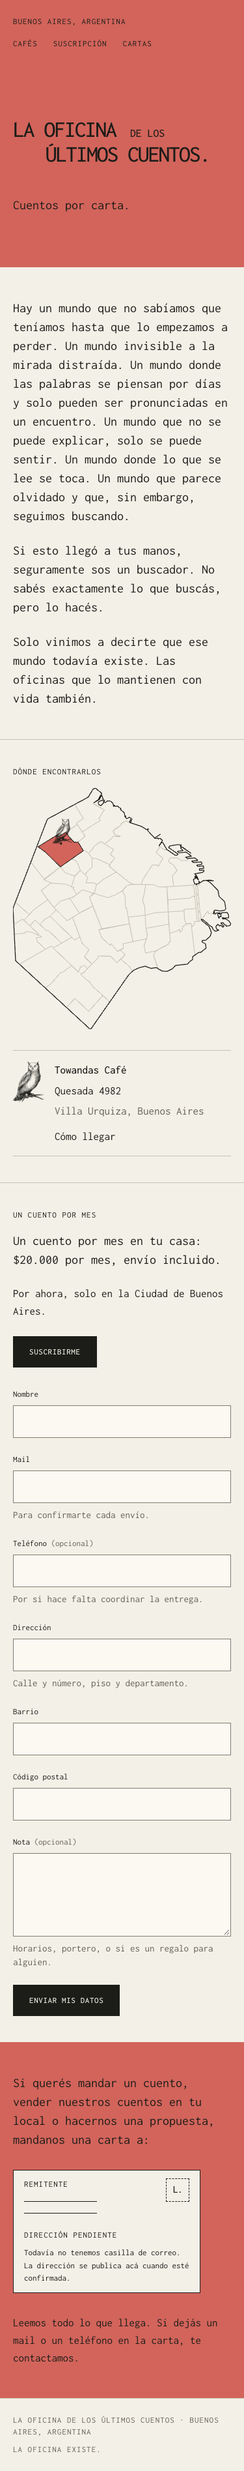
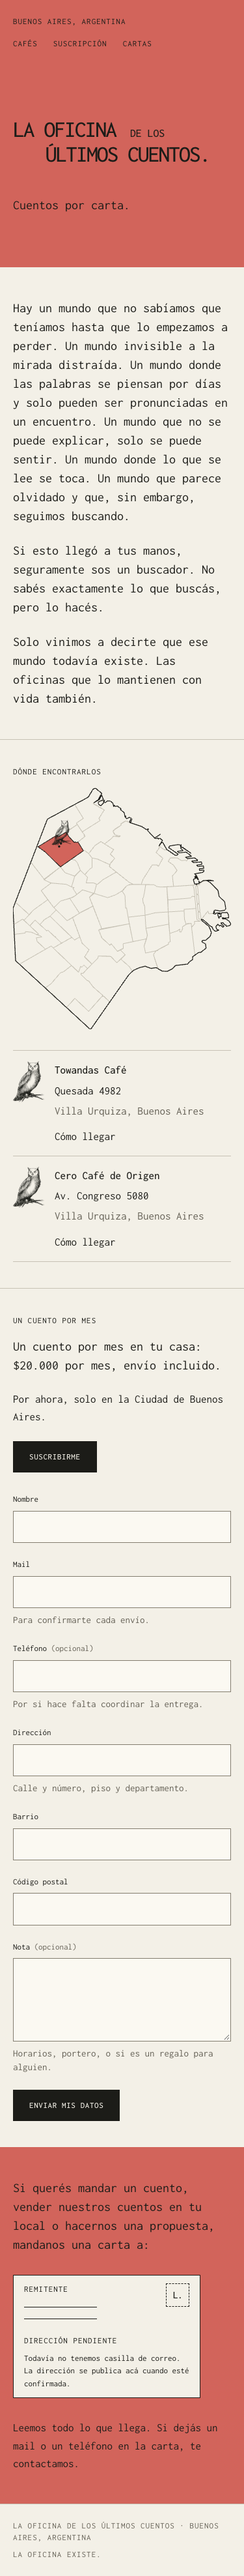
feat: Cero Café de Origen en Dónde encontrarlos; locales cercanos comparten la lechuza
- site.locales suma Cero Café de Origen (Av. Congreso 5080, Villa Urquiza; coordenadas y cid del Google Maps que enlaza su sitio).
- Mapa: un punto por local y una lechuza por grupo de locales a menos de su ancho (dos a tres cuadras se dibujaban una sobre la otra).
- QA: espera los dos locales, cuenta puntos y lechuzas; capturas regeneradas. Docs: README, DESIGN_SYSTEM, validation.

diff --git a/src/features/locales/Mapa.tsx b/src/features/locales/Mapa.tsx
@@ -6,9 +6,25 @@ import lechuza from "../../assets/lechuza.webp";
 const OWL = { width: 90, height: 120 };
 const plain = (text: string) => text.normalize("NFD").replace(/[\u0300-\u036f]/g, "").toLowerCase().trim();
 
+type Point = { x: number; y: number };
+/** Locals closer than an owl's width share one owl, standing between their dots: Towandas and Cero Café are three blocks apart and two owls there draw one over the other. Each local keeps its own dot. */
+function perches(points: Point[]): Point[] {
+  const groups: Point[][] = [];
+  for (const point of points) {
+    const group = groups.find(members => {
+      const centre = centroid(members);
+      return Math.hypot(centre.x - point.x, centre.y - point.y) < OWL.width;
+    });
+    if (group) group.push(point); else groups.push([point]);
+  }
+  return groups.map(centroid);
+}
+const centroid = (points: Point[]): Point => ({ x: points.reduce((sum, p) => sum + p.x, 0) / points.length, y: points.reduce((sum, p) => sum + p.y, 0) / points.length });
+
 /** The city drawn in one ink from its own data (no tiles, no requests), the barrio of each local in the red of the cover, and the owl standing on each local. The list next to it is the accessible source; the map names the locals in its title. */
 export function Mapa({ locales }: { locales: Local[] }) {
   const shaded = new Set(locales.map(local => plain(local.barrio)));
+  const points = locales.map(local => projectCaba(local.lat, local.lon));
   return <figure className="mapa-figure">
     <svg className="mapa" viewBox={`0 0 ${caba.width} ${caba.height}`} role="img" aria-labelledby="mapa-title" focusable="false">
       <title id="mapa-title">{`Mapa de la Ciudad de Buenos Aires con una lechuza en cada local: ${locales.map(local => `${local.nombre}, ${local.barrio}`).join("; ")}.`}</title>
@@ -16,13 +32,8 @@ export function Mapa({ locales }: { locales: Local[] }) {
       <desc>Trazado con los barrios de Buenos Aires Data (CC BY 4.0).</desc>
       <g>{caba.barrios.map(barrio => <path key={barrio.nombre} d={barrio.d} className={shaded.has(plain(barrio.nombre)) ? "mapa-barrio mapa-barrio--local" : "mapa-barrio"} />)}</g>
       <path d={caba.outline} className="mapa-contorno" />
-      {locales.map(local => {
-        const { x, y } = projectCaba(local.lat, local.lon);
-        return <g key={local.nombre} transform={`translate(${x.toFixed(1)} ${y.toFixed(1)})`}>
-          <circle r="5" className="mapa-punto" />
-          <image href={lechuza} width={OWL.width} height={OWL.height} x={-OWL.width * 0.42} y={-OWL.height + 4} />
-        </g>;
-      })}
+      {points.map((point, index) => <circle key={locales[index].nombre} cx={point.x.toFixed(1)} cy={point.y.toFixed(1)} r="5" className="mapa-punto" />)}
+      {perches(points).map(({ x, y }) => <image key={`${x.toFixed(1)} ${y.toFixed(1)}`} href={lechuza} width={OWL.width} height={OWL.height} x={(x - OWL.width * 0.42).toFixed(1)} y={(y - OWL.height + 4).toFixed(1)} />)}
     </svg>
   </figure>;
 }

diff --git a/src/content/site.ts b/src/content/site.ts
@@ -26,6 +26,7 @@ export const site = {
   /** Shops that sell the cuentos, in the order they joined. Only shops with the agreement in place (decisiones, fila Canales); an empty list hides the section. */
   locales: [
     { nombre: "Towandas Café", barrio: "Villa Urquiza", ciudad: "Buenos Aires", direccion: "Quesada 4982", lat: -34.5675666, lon: -58.4883118, mapa: "https://maps.google.com/?cid=9051435198881607600" },
+    { nombre: "Cero Café de Origen", barrio: "Villa Urquiza", ciudad: "Buenos Aires", direccion: "Av. Congreso 5080", lat: -34.5697631, lon: -58.4899585, mapa: "https://maps.google.com/?cid=7839819865668560653" },
   ] as Local[],
   /** The monthly subscription: price as shown (decisiones, fila Suscripción) and the Mercado Pago subscription link Joaquín generates; empty link: the page says payment is arranged by mail. */
   suscripcion: {

diff --git a/DESIGN_SYSTEM.md b/DESIGN_SYSTEM.md
@@ -251,6 +251,8 @@ Para cambiar el sistema:
 
 **v1.3, 27-oct-2026:** por pedido de Joaquín la web suma dos bloques en papel entre el manifiesto y las cartas: los locales donde se venden los cuentos (hoy Towandas Café, Quesada 4982, Villa Urquiza), con un mapa de la ciudad trazado desde datos abiertos y la lechuza de la Oficina sobre cada local, y la suscripción mensual a domicilio con formulario. La lechuza es el dibujo a pluma de Joaquín y entra como única ilustración de la web, a pedido suyo (sustituye la regla “sin ilustraciones” del 27-sep; los búhos del 28-sep siguen descartados). Patrón nuevo de bloque de dos columnas (rótulo a la izquierda, cuerpo a la derecha, línea fina arriba); sin tokens ni componentes nuevos. La regla “todo contacto empieza por carta” se acota: la carta sigue siendo la vía para mandar cuentos, locales y propuestas; la suscripción se pide por la web. Ajustes del mismo día, por pedido de Joaquín: fuera el párrafo de los locales y la atribución al pie del mapa (queda en el `desc` del SVG y en el README); la suscripción queda en dos líneas con precio ($20.000 por mes, envío incluido) y alcance (solo Ciudad de Buenos Aires, validado por código postal), y el pago se resuelve con el link de suscripción de Mercado Pago que aparece después del formulario. Tercera vuelta, también por pedido de Joaquín: el formulario queda plegado detrás del botón “Suscribirme” (`details` nativo) y la portada gana un menú de tres palabras (Cafés, Suscripción, Cartas) en la fila de arriba, anclas a las secciones. Sigue sin mail público ni redes. La descripción de la página pasa a “los hace llegar en papel: en cafés de Buenos Aires o a tu casa, un cuento por mes”.
 
+**30-oct-2026 (sigue v1.3):** segundo local en Dónde encontrarlos, Cero Café de Origen (Av. Congreso 5080, Villa Urquiza), a tres cuadras de Towandas. Como dos lechuzas tan cerca se dibujaban una sobre la otra, los locales a menos del ancho de la lechuza comparten una, parada entre sus puntos; cada local conserva su punto en el mapa y su fila en la lista. Sin tokens ni componentes nuevos.
+
 **v1.2, 27-sep-2026:** la web pasa a ser solo presencia y solo cartas (pedido de Joaquín: menos texto, espíritu de misterio, primer contacto en papel). Se retiran el formulario, Formspree, el mail público y la página de privacidad; la página queda en portada, manifiesto, invitación y dirección postal. Regla nueva: lo digital sirve para encontrar a la Oficina y todo lo demás pasa en papel. Descartados el cursor con vela y la portada noche; el búho quedó como sello futuro (ver 28-sep).
 
 **28-sep-2026:** entra el manifiesto de Joaquín en tres párrafos, sin cambios de tokens ni componentes. El build pre-renderiza la página y agrega datos estructurados Organization; el dominio público es laoficinaexiste.com. Cuarta ronda de Astra: tres objeciones técnicas aceptadas (sin `noscript`, sin `areaServed`, dirección como texto), sin bloqueantes visuales. Ajustes posteriores del mismo día, por pedido de Joaquín: la línea de portada pasa a “Cuentos por carta.”; la invitación y la dirección forman una segunda sección roja con “mandanos una carta a:” y la nota sobre mail o teléfono en la carta; se retiran “Lo que se publica lleva la firma de la Oficina.” y “Los remitentes se usan solo para responder.”; el pie cierra con “La Oficina existe.” La firma colectiva y el uso de los remitentes siguen como reglas internas, no como texto de la web. Como el bloque rojo quedaba en puro texto, la dirección pasa al frente de un sobre de papel: componente `Envelope`, nuevo en el sistema y en el muestrario, con las líneas del remitente y la estampilla. Búho: a pedido de Joaquín se dibujaron dos búhos originales para el sello (una silueta de cuerpo entero y, después, un grabado a pluma generado por script); ninguno lo convenció y el mismo día pidió volver a la “L.” de la firma. Queda así: la “L.” en tinta sobre el rojo de la portada es el favicon y el ícono de iPhone (PNG generados por el script con la tipografía de la página) y también la estampilla del sobre, en la fuente de etiquetas con el peso y el tracking de la firma. No hay ilustraciones en la web. Último ajuste del día: el sobre pasa a ser un detalle (18 rem de ancho como máximo, dirección en tamaño de etiqueta, estampilla y líneas del remitente proporcionales), porque a Joaquín le resultaba demasiado grande: lo pidió más chico dos veces. La sección roja lleva el texto a todo el ancho, a diferencia del manifiesto.

diff --git a/validation/README.md b/validation/README.md
@@ -8,7 +8,7 @@
 - 40 pares de contraste del sistema de diseño, incluidos tinta sobre el rojo de la portada y papel sobre tinta.
 - Navegador a 320, 375, 768 y 1440 px, texto ampliado al 200 %, movimiento reducido.
 - Dirección postal mostrada cuando está configurada o aviso de dirección pendiente cuando no; los locales de `site.locales` listados sin precio; ningún enlace de mail, cuento ni sobre en la página; canonical y tarjeta para compartir presentes; ninguna petición externa salvo el POST del formulario, simulado en la prueba.
-- Mapa dibujado desde los datos de la ciudad: un barrio pintado y una lechuza por local, la lechuza chica cargada en la lista y el enlace “Cómo llegar” a Google Maps en otra pestaña; sin peticiones externas al visitar.
+- Mapa dibujado desde los datos de la ciudad: un barrio pintado, un punto por local y una lechuza por local (los locales a menos del ancho de la lechuza comparten una, parada entre sus puntos), la lechuza chica cargada en la lista y el enlace “Cómo llegar” a Google Maps en otra pestaña; sin peticiones externas al visitar.
 - Menú de la portada: tres anclas, cada una a una sección que existe.
 - Formulario de suscripción plegado detrás de “Suscribirme” (cerrado al cargar): un envío vacío marca los campos, enfoca el primero y no manda nada; un código postal fuera de la Ciudad se rechaza sin mandar nada; con el servicio respondiendo 500 muestra el error y conserva los datos; con 200 muestra la confirmación con el botón de Mercado Pago (si el link está configurado) y permite otro pedido; sin JavaScript queda como POST común con validación nativa.
 - Página completa sin JavaScript (pre-render) y JSON-LD Organization con la URL canónica; sin errores de consola al hidratar.

diff --git a/README.md b/README.md
@@ -54,7 +54,7 @@ pnpm check:design
 pnpm build
 ```
 
-El mapa sale de [scripts/build-map.mjs](scripts/build-map.mjs): lee el GeoJSON de barrios de Buenos Aires Data (CC BY 4.0, atribuido en el `desc` del SVG y acá), simplifica los polígonos y escribe `src/content/caba.ts` (15 KB); se corre a mano, solo si cambia la fuente. La lechuza es el dibujo de Joaquín ([design-system/references/10-lechuza.jpg](design-system/references/10-lechuza.jpg)) recortado sin fondo, en tinta, a 400 px de alto ([src/assets/lechuza.webp](src/assets/lechuza.webp)).
+El mapa sale de [scripts/build-map.mjs](scripts/build-map.mjs): lee el GeoJSON de barrios de Buenos Aires Data (CC BY 4.0, atribuido en el `desc` del SVG y acá), simplifica los polígonos y escribe `src/content/caba.ts` (15 KB); se corre a mano, solo si cambia la fuente. La lechuza es el dibujo de Joaquín ([design-system/references/10-lechuza.jpg](design-system/references/10-lechuza.jpg)) recortado sin fondo, en tinta, a 400 px de alto ([src/assets/lechuza.webp](src/assets/lechuza.webp)). Cada local tiene su punto en el mapa; los locales a menos del ancho de la lechuza (90 unidades del viewBox, unas 18 cuadras) comparten una lechuza parada entre sus puntos, porque dos lechuzas a tres cuadras se dibujan una sobre la otra.
 
 `pnpm build` compila, pre-renderiza la página con [scripts/prerender.mjs](scripts/prerender.mjs) (entrada [src/entry-server.tsx](src/entry-server.tsx)) y agrega el JSON-LD. El servidor de desarrollo sirve la página sin pre-render; para ver el HTML final, `pnpm preview` después del build.
 
